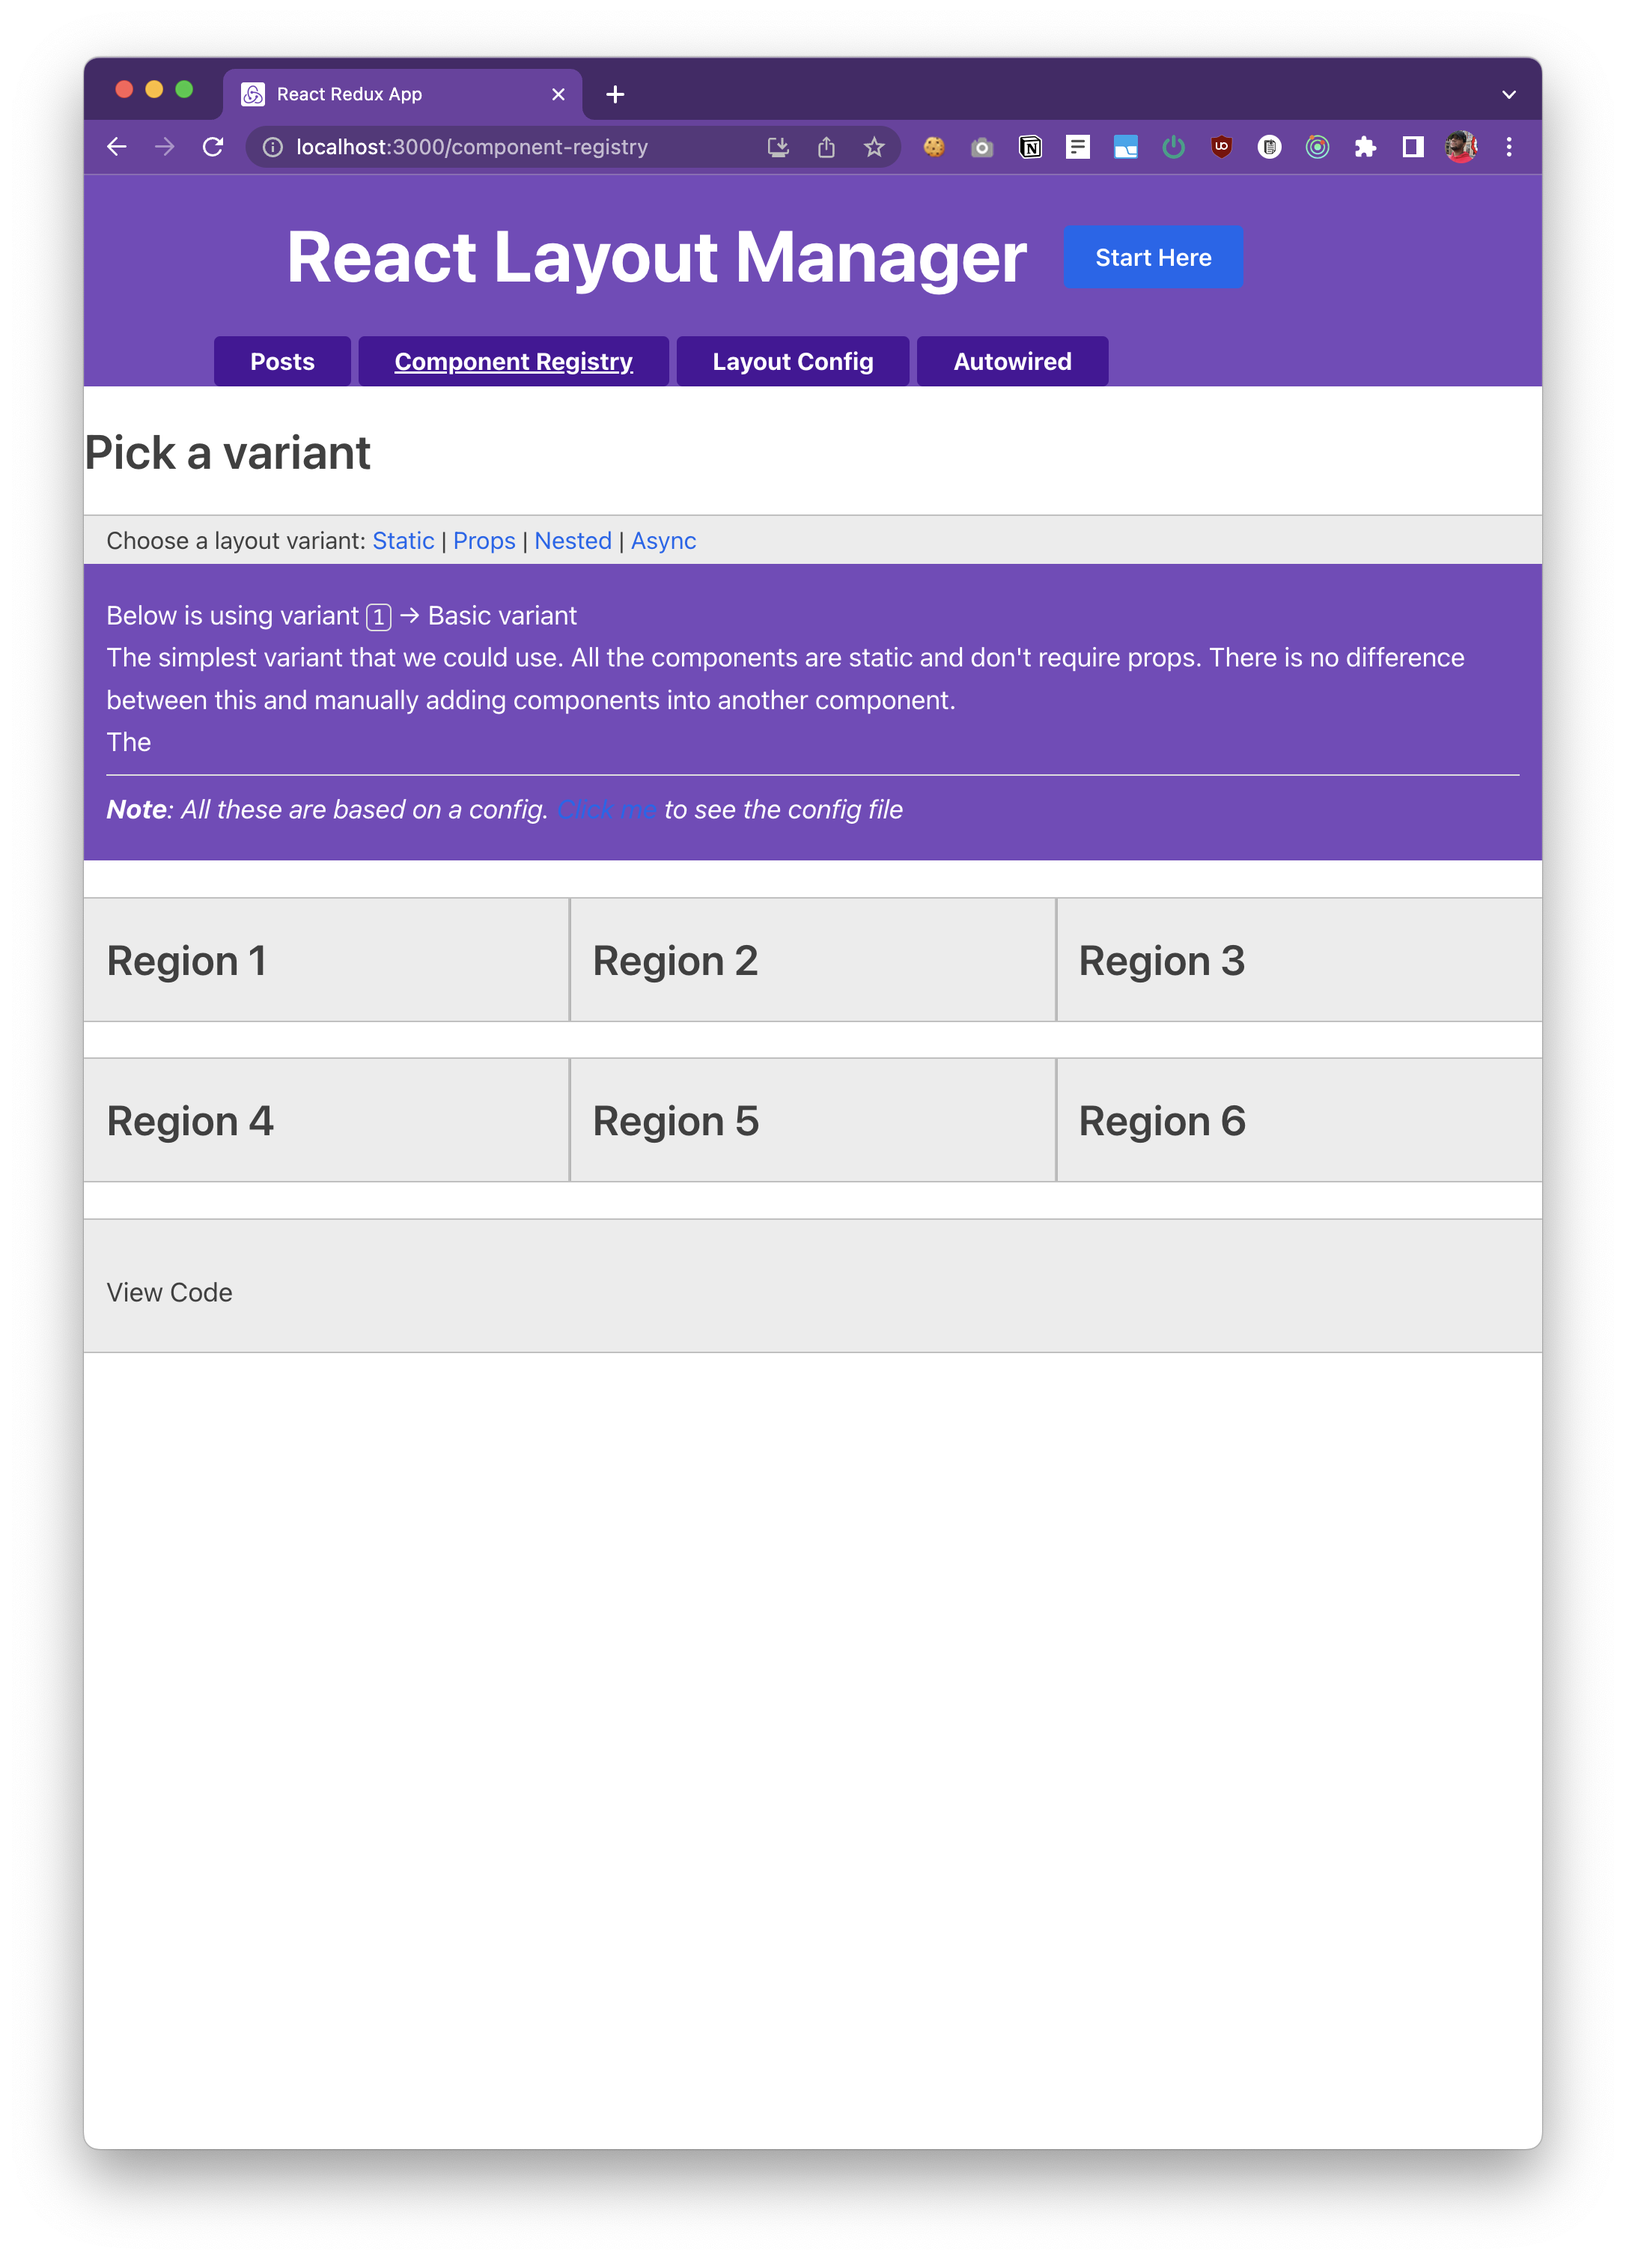
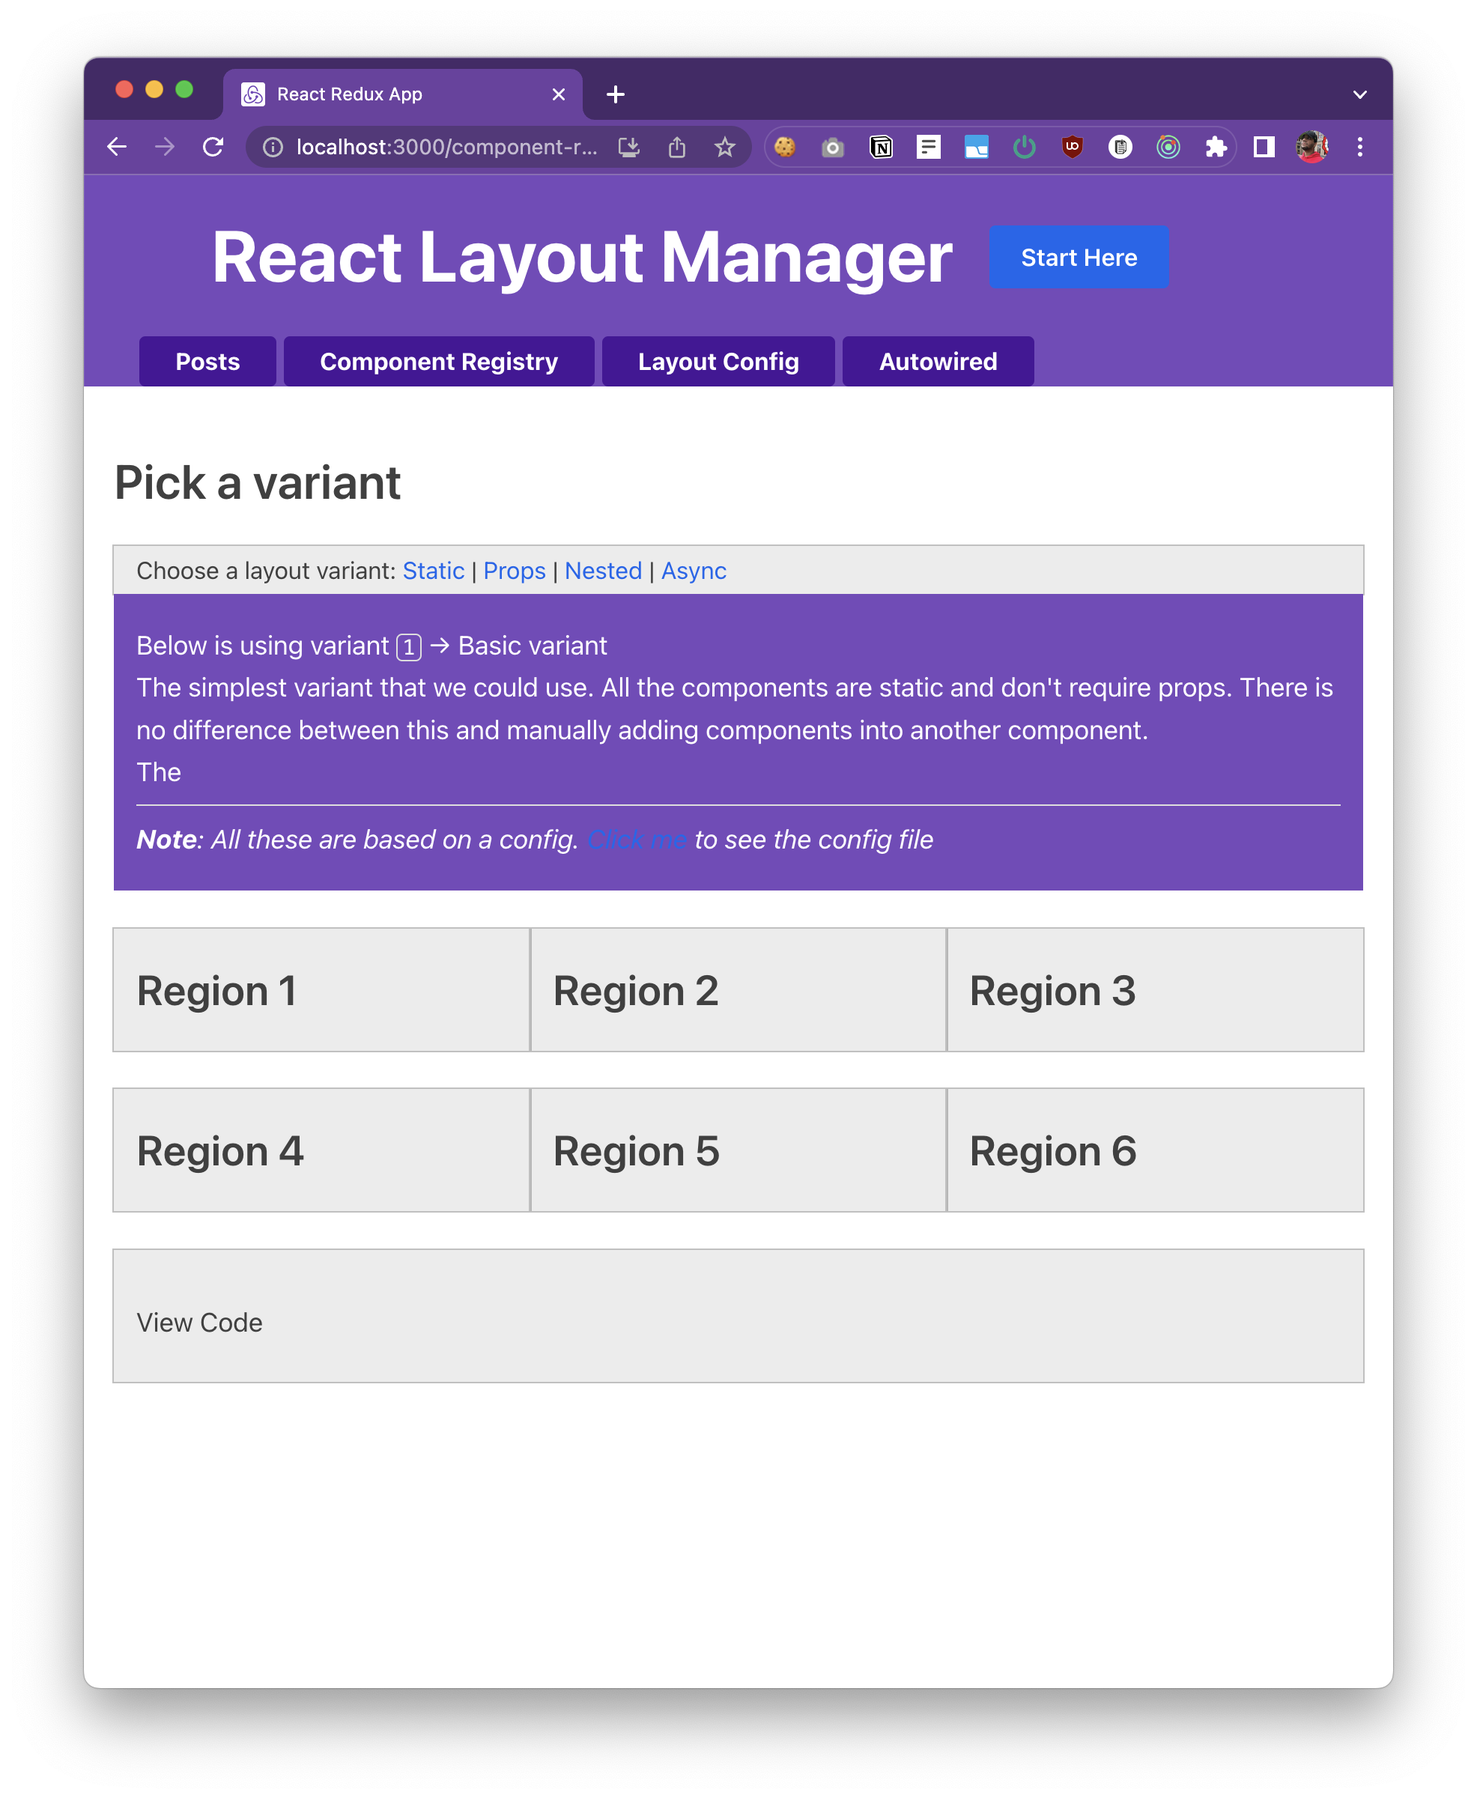
Had to add padding; driving me nuts

diff --git a/src/features/component-registry/index.js b/src/features/component-registry/index.js
@@ -19,7 +19,7 @@ export const ComponentRegistry = () => {
   // const region1 = registerRegion(Registry, variants[variant].regions.region1.tiles)
 
   return (
-    <div>
+    <div className="component-registry">
       <h2>Pick a variant</h2>
       <Container fluid>
         <Row debug>

diff --git a/src/index.css b/src/index.css
@@ -317,3 +317,7 @@ button.reaction-button {
   padding-right: 4px;
   font-size: 110%;
 }
+
+.component-registry {
+  padding: 20px;
+}
